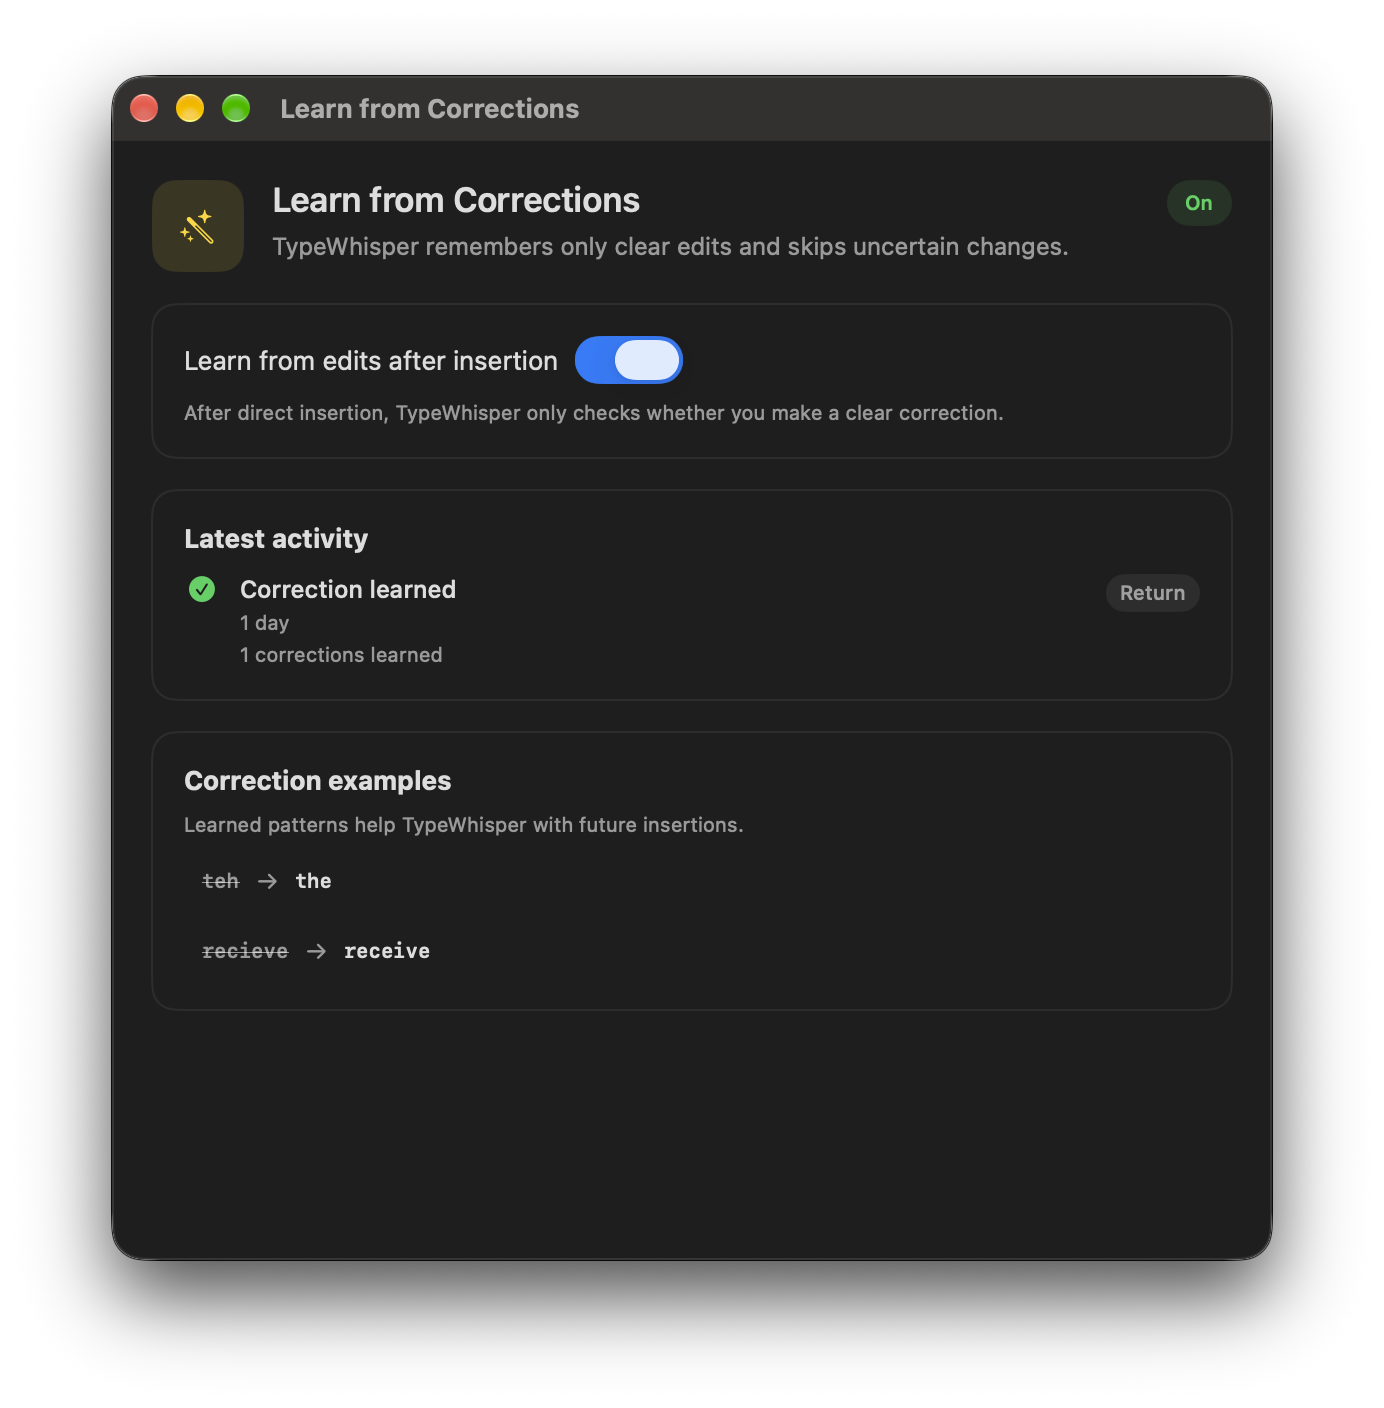
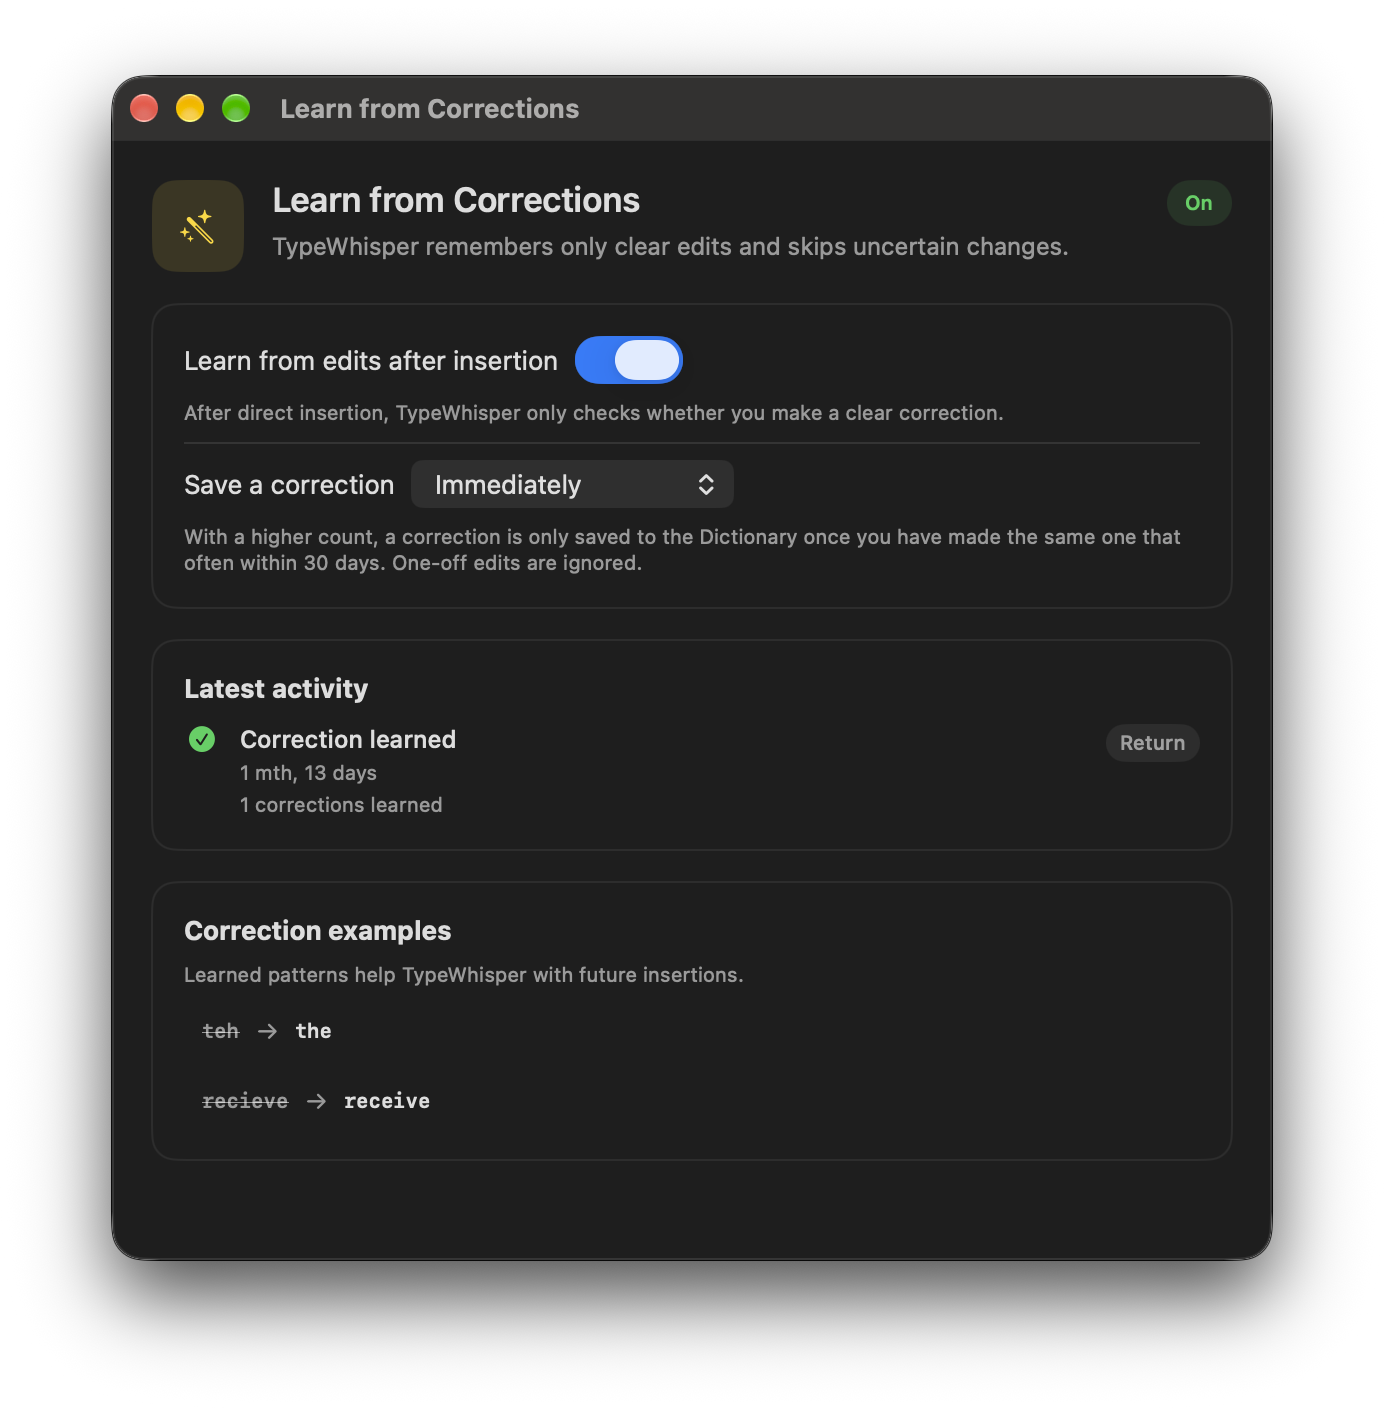
feat(learning): learn corrections only after repeats and ignore number edits
Learning from edits saved every confident correction right away, which also
turned one-off rewrites into permanent replacements. A new setting chooses how
often the same correction must be made within 30 days before it is saved
(immediately, 2, 3 or 5 times). Pending counts are stored under a digest, not
with the corrected words.

A number changed into another number, such as 90% to 95%, is no longer treated
as a correction.

diff --git a/TypeWhisper/Services/TargetAppCorrectionLearningService.swift b/TypeWhisper/Services/TargetAppCorrectionLearningService.swift
@@ -1,5 +1,6 @@
 import AppKit
 import Combine
+import CryptoKit
 import Foundation
 
 enum TargetAppCorrectionCommitSignal: String, Codable, Equatable, Sendable {
@@ -37,6 +38,7 @@ enum TargetAppCorrectionLearningOutcome: String, Codable, Equatable, Sendable {
     case ambiguousEdit
     case noCommitBeforeTimeout
     case duplicateCorrection
+    case awaitingRepeat
     case cancelled
     case failed
 }
@@ -211,9 +213,20 @@ private final class TargetAppCorrectionWakeCoordinator: @unchecked Sendable {
     }
 }
 
+/// How often a correction was seen while corrections are only learned after repeats.
+/// Keyed by a digest, so the corrected words themselves are never stored.
+private struct PendingCorrectionObservation: Codable, Equatable {
+    var count: Int
+    var lastSeen: Date
+}
+
 @MainActor
 final class TargetAppCorrectionLearningService: ObservableObject {
     private static let defaultPollSchedule: [Duration] = (1...30).map { .seconds($0) }
+    /// Choices offered for how often the same correction must be made before it is learned.
+    static let requiredObservationChoices = [1, 2, 3, 5]
+    private static let pendingObservationLifetime: TimeInterval = 30 * 24 * 60 * 60
+    private static let maxPendingObservations = 500
 
     private let textInsertionService: TextInsertionService
     private let textDiffService: TextDiffService
@@ -225,6 +238,7 @@ final class TargetAppCorrectionLearningService: ObservableObject {
     private let shouldPersistLatestAttempt: Bool
     private let now: @MainActor () -> Date
     private var activeAttemptID: UUID?
+    private var pendingObservations: [String: PendingCorrectionObservation]
 
     @Published private(set) var latestAttempt: TargetAppCorrectionLearningAttemptSnapshot?
 
@@ -255,6 +269,7 @@ final class TargetAppCorrectionLearningService: ObservableObject {
         self.defaults = defaults
         self.shouldPersistLatestAttempt = persistLatestAttempt
         self.now = now
+        self.pendingObservations = Self.loadPendingObservations(from: defaults)
         self.latestAttempt = Self.loadLatestAttempt(from: defaults)
     }
 
@@ -435,6 +450,16 @@ final class TargetAppCorrectionLearningService: ObservableObject {
             )
         }
 
+        let suggestions = suggestions.filter(hasEnoughObservations)
+        guard !suggestions.isEmpty else {
+            return completeAttempt(
+                id: id,
+                outcome: .awaitingRepeat,
+                commitSignal: commitSignal,
+                correctionObservation: correctionObservation
+            )
+        }
+
         let dictionaryResult = learnCorrections(suggestions)
         let outcome: TargetAppCorrectionLearningOutcome
         if dictionaryResult.failed {
@@ -478,6 +503,51 @@ final class TargetAppCorrectionLearningService: ObservableObject {
             learnedCorrections: learnedCorrections,
             correctionObservation: correctionObservation
         )
+    }
+
+    /// A correction is held back until the same edit was committed as often as the user
+    /// asked for; with the default of one, every confident correction is learned right away.
+    private func hasEnoughObservations(_ suggestion: CorrectionSuggestion) -> Bool {
+        let requiredObservations = defaults.integer(
+            forKey: UserDefaultsKeys.targetAppCorrectionLearningRequiredObservations
+        )
+        guard requiredObservations > 1 else { return true }
+
+        let timestamp = now()
+        let expiry = timestamp.addingTimeInterval(-Self.pendingObservationLifetime)
+        pendingObservations = pendingObservations.filter { $0.value.lastSeen >= expiry }
+
+        let key = Self.pendingObservationKey(for: suggestion)
+        let count = (pendingObservations[key]?.count ?? 0) + 1
+        if count >= requiredObservations {
+            pendingObservations[key] = nil
+        } else {
+            pendingObservations[key] = PendingCorrectionObservation(count: count, lastSeen: timestamp)
+            if pendingObservations.count > Self.maxPendingObservations,
+               let oldest = pendingObservations.min(by: { $0.value.lastSeen < $1.value.lastSeen }) {
+                pendingObservations[oldest.key] = nil
+            }
+        }
+        persistPendingObservations()
+        return count >= requiredObservations
+    }
+
+    private static func pendingObservationKey(for suggestion: CorrectionSuggestion) -> String {
+        let identity = suggestion.original.lowercased() + "\u{1F}" + suggestion.replacement
+        return SHA256.hash(data: Data(identity.utf8)).map { String(format: "%02x", $0) }.joined()
+    }
+
+    private func persistPendingObservations() {
+        guard shouldPersistLatestAttempt else { return }
+        guard let data = try? JSONEncoder().encode(pendingObservations) else { return }
+        defaults.set(data, forKey: UserDefaultsKeys.targetAppCorrectionLearningPendingObservations)
+    }
+
+    private static func loadPendingObservations(from defaults: UserDefaults) -> [String: PendingCorrectionObservation] {
+        guard let data = defaults.data(forKey: UserDefaultsKeys.targetAppCorrectionLearningPendingObservations) else {
+            return [:]
+        }
+        return (try? JSONDecoder().decode([String: PendingCorrectionObservation].self, from: data)) ?? [:]
     }
 
     private func persistLatestAttempt(_ snapshot: TargetAppCorrectionLearningAttemptSnapshot) {

diff --git a/TypeWhisperTests/TargetAppCorrectionLearningServiceTests.swift b/TypeWhisperTests/TargetAppCorrectionLearningServiceTests.swift
@@ -831,6 +831,74 @@ final class TargetAppCorrectionLearningServiceTests: XCTestCase {
         XCTAssertEqual(dictionaryService.correctionsCount, 1)
     }
 
+    func testRepeatRequirementLearnsCorrectionOnceItWasMadeOftenEnough() async throws {
+        let appSupportDirectory = try TestSupport.makeTemporaryDirectory()
+        defer { TestSupport.remove(appSupportDirectory) }
+        let suiteName = "TargetAppCorrectionLearningServiceTests.\(UUID().uuidString)"
+        guard let defaults = UserDefaults(suiteName: suiteName) else {
+            return XCTFail("Could not create isolated defaults")
+        }
+        defer { defaults.removePersistentDomain(forName: suiteName) }
+        defaults.set(3, forKey: UserDefaultsKeys.targetAppCorrectionLearningRequiredObservations)
+
+        let element = AXUIElementCreateSystemWide()
+        let textInsertionService = TextInsertionService()
+        textInsertionService.focusedTextElementOverride = { element }
+        textInsertionService.focusedTextStateOverride = { _ in
+            (value: "Please use the word", selectedText: nil, selectedRange: NSRange(location: 19, length: 0))
+        }
+        let dictionaryService = DictionaryService(appSupportDirectory: appSupportDirectory)
+        let baseline = TextInsertionService.FocusedTextObservation(
+            element: element,
+            value: "Please use teh word",
+            selectedText: nil,
+            selectedRange: NSRange(location: 19, length: 0)
+        )
+
+        func trackCommittedCorrection() async -> TargetAppCorrectionLearningResult {
+            let commitEmitter = CommitEmitterBox()
+            var sleepCount = 0
+            // A new service per dictation also proves the count survives a relaunch.
+            let service = TargetAppCorrectionLearningService(
+                textInsertionService: textInsertionService,
+                textDiffService: TextDiffService(),
+                dictionaryService: dictionaryService,
+                pollSchedule: [.milliseconds(0), .milliseconds(0)],
+                sleep: { _ in
+                    sleepCount += 1
+                    if sleepCount == 2 {
+                        commitEmitter.emit(.returnKey)
+                    }
+                },
+                makeCommitObserver: commitObserver(capturing: commitEmitter),
+                defaults: defaults,
+                persistLatestAttempt: true
+            )
+            return await service.trackInsertion(insertedText: "teh", baseline: baseline)
+        }
+
+        let first = await trackCommittedCorrection()
+        XCTAssertEqual(first.snapshot.outcome, .awaitingRepeat)
+        XCTAssertTrue(first.learnedCorrections.isEmpty)
+        XCTAssertEqual(dictionaryService.correctionsCount, 0)
+
+        let pendingData = try XCTUnwrap(defaults.data(
+            forKey: UserDefaultsKeys.targetAppCorrectionLearningPendingObservations
+        ))
+        let pendingJSON = try XCTUnwrap(String(data: pendingData, encoding: .utf8))
+        XCTAssertFalse(pendingJSON.contains("teh"))
+
+        let second = await trackCommittedCorrection()
+        XCTAssertEqual(second.snapshot.outcome, .awaitingRepeat)
+        XCTAssertEqual(dictionaryService.correctionsCount, 0)
+
+        let third = await trackCommittedCorrection()
+        XCTAssertEqual(third.snapshot.outcome, .learned)
+        XCTAssertEqual(third.learnedCorrections.first?.original, "teh")
+        XCTAssertEqual(third.learnedCorrections.first?.replacement, "the")
+        XCTAssertEqual(dictionaryService.correctionsCount, 1)
+    }
+
     func testCancelsStaleTrackingBeforeLearning() async throws {
         let appSupportDirectory = try TestSupport.makeTemporaryDirectory()
         defer { TestSupport.remove(appSupportDirectory) }

diff --git a/TypeWhisper/Views/PremiumSettingsView.swift b/TypeWhisper/Views/PremiumSettingsView.swift
@@ -263,6 +263,7 @@ struct PremiumCorrectionLearningSettingsView: View {
     @ObservedObject private var license: LicenseService
     @ObservedObject private var correctionLearningService: TargetAppCorrectionLearningService
     @AppStorage(UserDefaultsKeys.targetAppCorrectionLearningEnabled) private var learningEnabled = false
+    @AppStorage(UserDefaultsKeys.targetAppCorrectionLearningRequiredObservations) private var requiredObservations = 1
 
     private let onManageAccess: () -> Void
 
@@ -310,6 +311,30 @@ struct PremiumCorrectionLearningSettingsView: View {
                     .accessibilityIdentifier("premium.learning.enabled")
 
                     Text(String(localized: "premium.window.learning.help"))
+                        .font(.caption)
+                        .foregroundStyle(.secondary)
+
+                    Divider()
+
+                    Picker(
+                        String(localized: "premium.window.learning.repeatCount.label"),
+                        selection: $requiredObservations
+                    ) {
+                        ForEach(TargetAppCorrectionLearningService.requiredObservationChoices, id: \.self) { count in
+                            Text(count == 1
+                                ? String(localized: "premium.window.learning.repeatCount.immediately")
+                                : String.localizedStringWithFormat(
+                                    String(localized: "premium.window.learning.repeatCount.afterFormat"),
+                                    count
+                                ))
+                                .tag(count)
+                        }
+                    }
+                    .fixedSize()
+                    .disabled(!learningEnabled)
+                    .accessibilityIdentifier("premium.learning.repeatCount")
+
+                    Text(String(localized: "premium.window.learning.repeatCount.help"))
                         .font(.caption)
                         .foregroundStyle(.secondary)
                 }

diff --git a/TypeWhisper/Services/TextDiffService.swift b/TypeWhisper/Services/TextDiffService.swift
@@ -166,6 +166,8 @@ final class TextDiffService {
                 // Skip if only punctuation or case changed
                 if origStripped.lowercased() == replStripped.lowercased() { continue }
 
+                if Self.isNumericValue(origStripped), Self.isNumericValue(replStripped) { continue }
+
                 suggestions.append(CorrectionSuggestion(
                     original: origStripped,
                     replacement: replStripped
@@ -213,6 +215,10 @@ final class TextDiffService {
                 return []
             }
 
+            guard !(Self.isNumericValue(originalStripped) && Self.isNumericValue(editedStripped)) else {
+                return []
+            }
+
             suggestion = CorrectionSuggestion(
                 original: originalStripped,
                 replacement: editedStripped
@@ -229,6 +235,12 @@ final class TextDiffService {
 
     private static func strippedWordToken(_ token: String) -> String {
         token.trimmingCharacters(in: .punctuationCharacters)
+    }
+
+    /// A number changed into another number ("90%" -> "95%") is a content edit,
+    /// not a misrecognized word worth replacing in every future dictation.
+    private static func isNumericValue(_ token: String) -> Bool {
+        token.contains(where: \.isNumber) && !token.contains(where: \.isLetter)
     }
 
     private static func isPunctuationOnly(_ token: String) -> Bool {

diff --git a/TypeWhisper/Views/PremiumFeatureOverview.swift b/TypeWhisper/Views/PremiumFeatureOverview.swift
@@ -875,6 +875,8 @@ enum PremiumCorrectionLearningCopy {
             String(localized: "premium.window.learning.outcome.noCommitBeforeTimeout")
         case .duplicateCorrection:
             String(localized: "premium.window.learning.outcome.duplicateCorrection")
+        case .awaitingRepeat:
+            String(localized: "premium.window.learning.outcome.awaitingRepeat")
         case .cancelled:
             String(localized: "premium.window.learning.outcome.cancelled")
         case .failed:
@@ -890,7 +892,7 @@ enum PremiumCorrectionLearningCopy {
             "exclamationmark.triangle.fill"
         case .unsupportedTextObservation, .ambiguousEdit, .noCommitBeforeTimeout:
             "info.circle.fill"
-        case .noEdit, .duplicateCorrection, .cancelled:
+        case .noEdit, .duplicateCorrection, .awaitingRepeat, .cancelled:
             "minus.circle.fill"
         }
     }
@@ -903,7 +905,7 @@ enum PremiumCorrectionLearningCopy {
             .red
         case .unsupportedTextObservation, .ambiguousEdit, .noCommitBeforeTimeout:
             .yellow
-        case .noEdit, .duplicateCorrection, .cancelled:
+        case .noEdit, .duplicateCorrection, .awaitingRepeat, .cancelled:
             .secondary
         }
     }

diff --git a/TypeWhisperTests/TextDiffServiceTests.swift b/TypeWhisperTests/TextDiffServiceTests.swift
@@ -149,6 +149,26 @@ final class TextDiffServiceTests: XCTestCase {
         XCTAssertEqual(suggestions.first?.replacement, "the")
     }
 
+    func testExtractionSkipsNumberToNumberEdits() {
+        let service = TextDiffService()
+
+        XCTAssertTrue(service.extractHighConfidenceCorrections(
+            original: "accuracy was 90% today",
+            edited: "accuracy was 95% today"
+        ).isEmpty)
+        XCTAssertTrue(service.extractCorrections(
+            original: "accuracy was 90% today",
+            edited: "accuracy was 95% today"
+        ).isEmpty)
+
+        let suggestions = service.extractHighConfidenceCorrections(
+            original: "deploy to Kates now",
+            edited: "deploy to K8s now"
+        )
+        XCTAssertEqual(suggestions.first?.original, "Kates")
+        XCTAssertEqual(suggestions.first?.replacement, "K8s")
+    }
+
     func testHighConfidenceExtractionSkipsAmbiguousAndLowSignalEdits() {
         let service = TextDiffService()
 

diff --git a/TypeWhisper/App/UserDefaultsKeys.swift b/TypeWhisper/App/UserDefaultsKeys.swift
@@ -90,6 +90,8 @@ enum UserDefaultsKeys {
     static let selectedIndustryPreset = "selectedIndustryPreset"
     static let targetAppCorrectionLearningEnabled = "targetAppCorrectionLearningEnabled"
     static let targetAppCorrectionLearningLatestAttempt = "targetAppCorrectionLearningLatestAttempt"
+    static let targetAppCorrectionLearningRequiredObservations = "targetAppCorrectionLearningRequiredObservations"
+    static let targetAppCorrectionLearningPendingObservations = "targetAppCorrectionLearningPendingObservations"
 
     // MARK: - Calendar Meeting Automation (machine-local; intentionally not synced/exported)
     static let calendarMeetingStartMode = "calendarMeetingStartMode"
